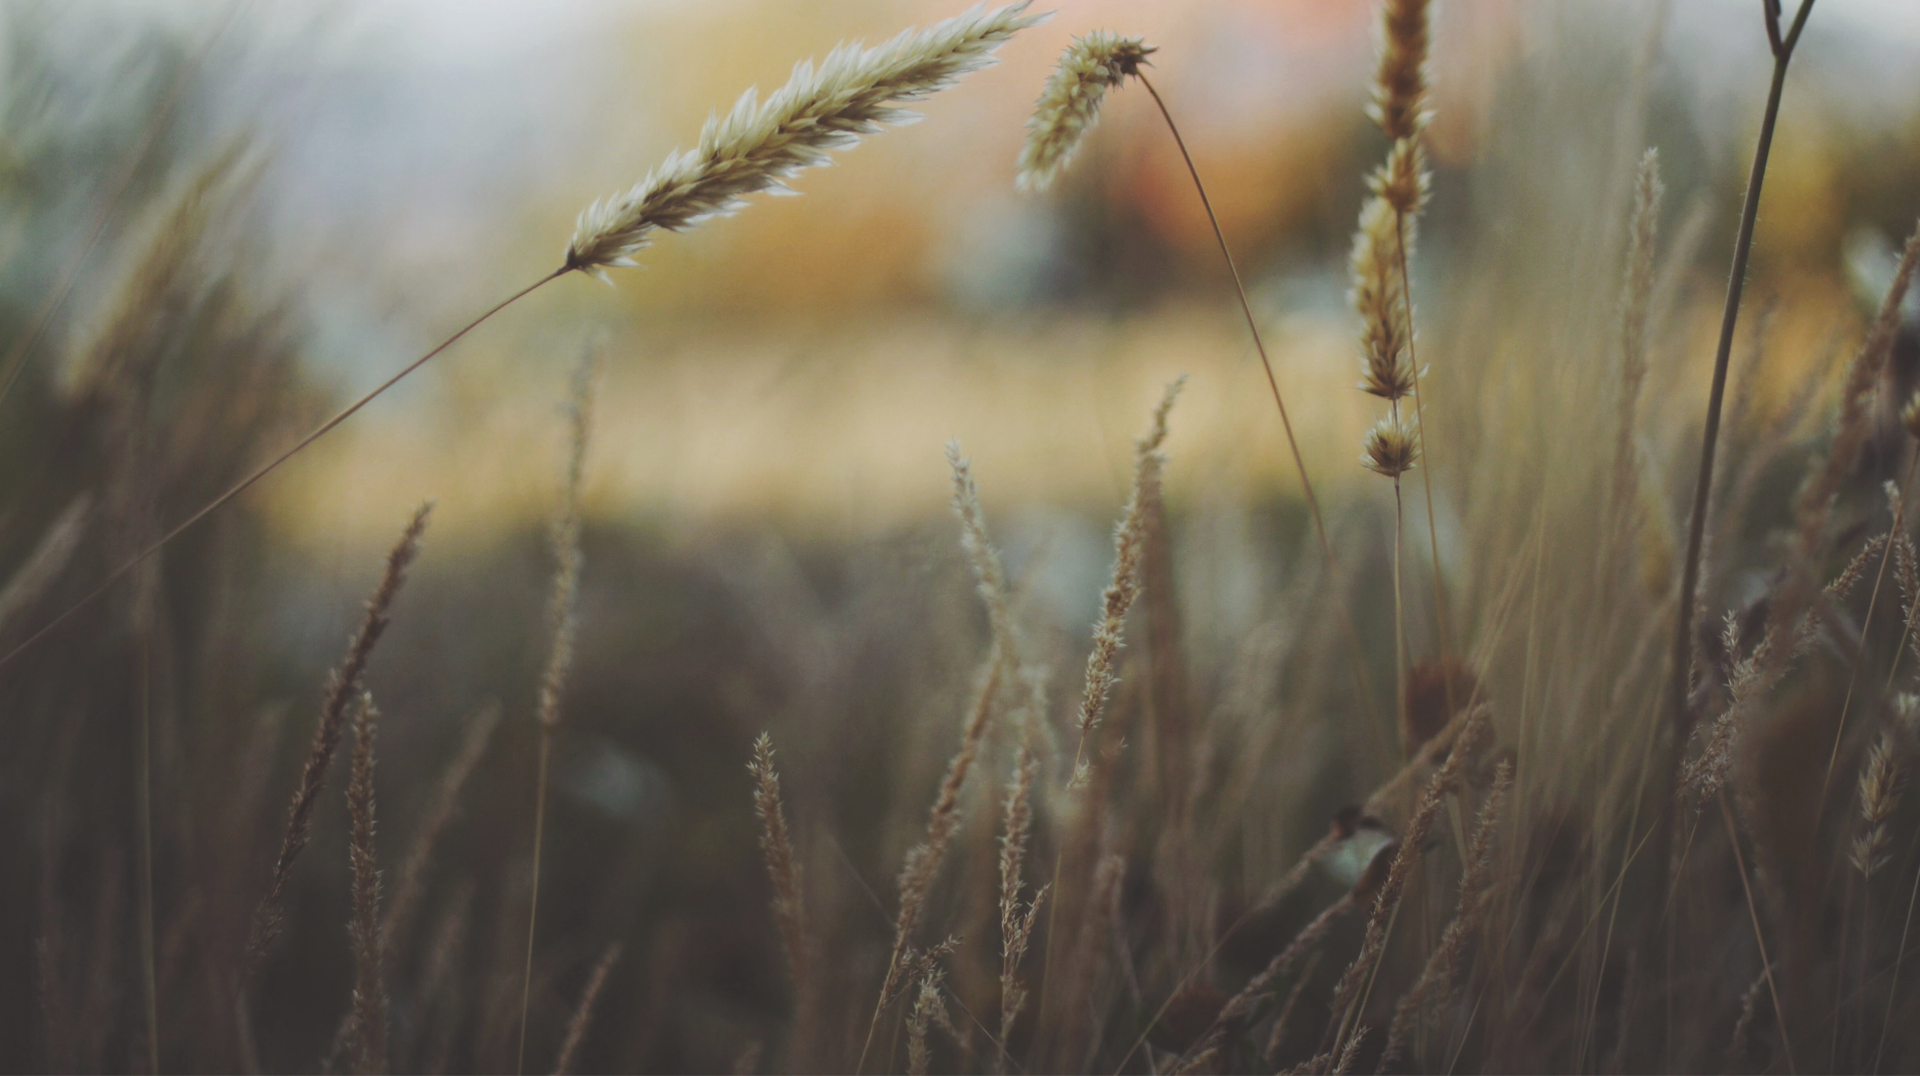
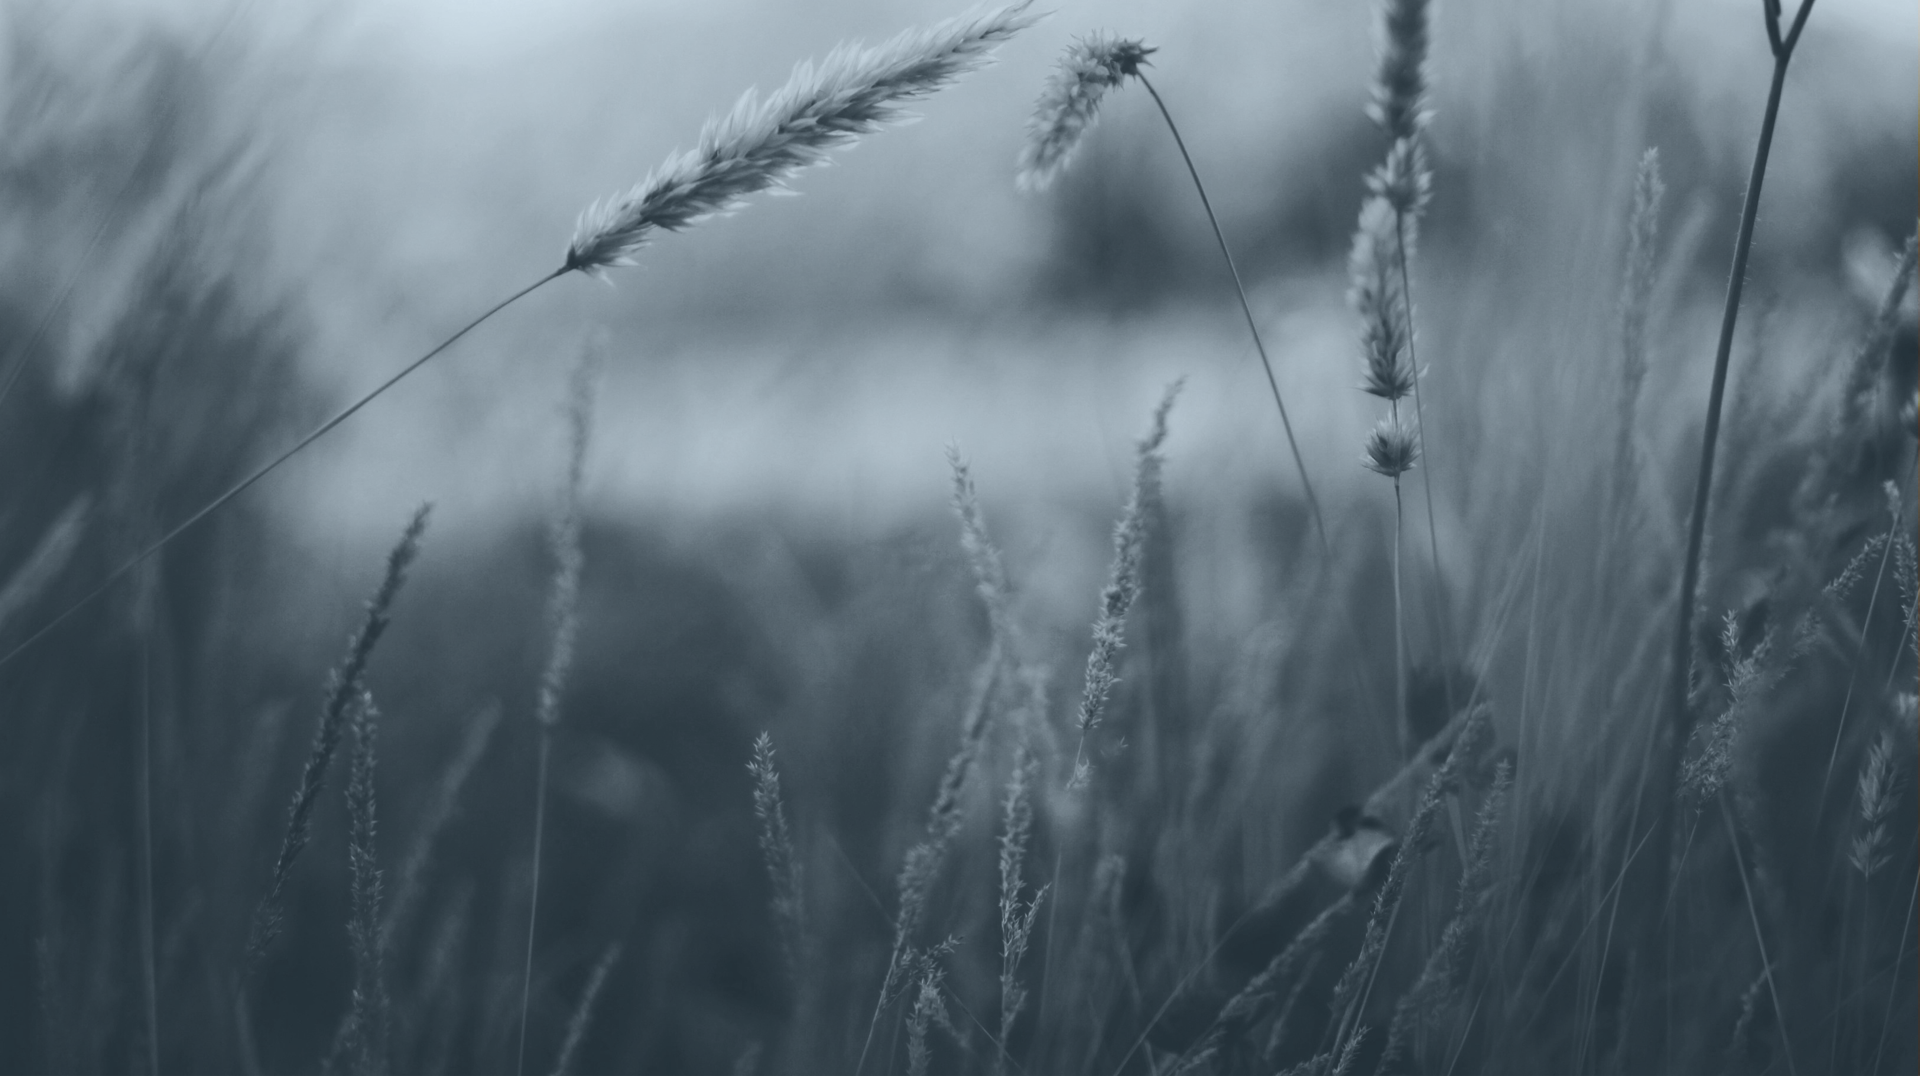
~not final push~

diff --git a/Blueasy page/index.html b/Blueasy page/index.html
@@ -8,7 +8,7 @@
     <link rel="stylesheet" href="https://cdnjs.cloudflare.com/ajax/libs/twitter-bootstrap/4.1.3/css/bootstrap.min.css">
     <link rel="stylesheet" href="https://use.fontawesome.com/releases/v5.3.1/css/all.css">
     <link rel="stylesheet" href="css/style.css">
-    <title>Title</title>
+    <title>Blueasy Template</title>
 </head>
 
 <body>
@@ -208,131 +208,130 @@
         </div> <!-- fin container twitter -->
 
     </div> <!-- fin container fluid twitter -->
-
-    <div class="bg2">
     
-        <div class="container-fluid doeContFluid">
     
-            <div class="container doeCont">
-            
-                <div class="row">
-                    <h3><span class="underligne">wh</span>o is john doe?</h3>
+    <div class="container-fluid doeContFluid">
+    
+        <div class="container doeCont">
+    
+            <div class="row">
+                <h3><span class="underligne">wh</span>o is john doe?</h3>
+            </div>
+    
+            <div class="row">
+    
+                <div class="col-6 doeCol">
+    
+                    <p class="doePara">Bear claw marzipan bear claw applicake I love muffin. Lemon drops gummi bears pastry
+                        gummi bears sesame snaps I love
+                        unerdwear.com. Soufflé cotton candy dessert candy ice cream wafer gummies cheesecake brownie.</p>
+                    <p>Muffin chupa chups jelly beans sweet pie applicake. Croissant chocolate cake I love pudding. Ice
+                        cream I love powder
+                        pudding apple pie marshmallow. Cupcake marzipan oat cake bonbon I love candy canes toffee.</p>
+    
                 </div>
-            
-                <div class="row">
-            
-                    <div class="col-6 doeCol"> 
-                        
-                        <p class="doePara">Bear claw marzipan bear claw applicake I love muffin. Lemon drops gummi bears pastry gummi bears sesame snaps I love
-                            unerdwear.com. Soufflé cotton candy dessert candy ice cream wafer gummies cheesecake brownie.</p>
-                        <p>Muffin chupa chups jelly beans sweet pie applicake. Croissant chocolate cake I love pudding. Ice cream I love powder
-                            pudding apple pie marshmallow. Cupcake marzipan oat cake bonbon I love candy canes toffee.</p>
-
-                    </div>
-            
-                    <div class="col-6"> 
-
-                        <p class="doePara">Pudding dessert jujubes tiramisu gingerbread croissant tiramisu applicake. Sesame snaps sugar plum cotton candy
-                            chocolate bonbon lemon drops candy canes cotton candy. Cake toffee pie bear claw pastry.</p>
-
-                        <i class="fab fa-twitter doeIcone"></i>
-                        <i class="fab fa-google-plus-g doeIcone"></i>
-                        <i class="fab fa-dribbble doeIcone"></i>
-                        <i class="fas fa-coffee doeIcone"></i>
-
-                    </div>
-            
-                </div>            
-            
-            </div> <!-- fin container doe -->
-
-            <div class="testimonials">
-
-                <div class="container">
-
-                    <div class="testiTitle">
-                        <h3><span class="underligne">tes</span>timonials</h3>
-                        <img src="img/quote.png" alt="">
-                    </div>
-
-                    <div class="testiPara">
-                        <p>Applicake chocolate cake wafer toffee pie soufflé wafer. Tart marshmallow wafer macaroon cheesecake jelly.
-                            Gingerbread cookie soufflé sweet roll sweet roll jelly-o.</p>
-                        
-                        <span class="wWhite boldMe">-Walker White</span>
-                    </div>
-
-                </div> <!-- fin container testimonials -->
-
-            </div> <!-- fin testimonials -->
     
-        </div> <!-- fin container fluid doe -->
-
-    </div> <!-- fin flitre -->
-
-    <div class="bg3">
-
-        <div class="container-fluid containerFlForm">
+                <div class="col-6">
     
-            <div class="container ">
-            
-                <h3><span class="underligne">co</span>ntact</h3>
-            
-                <form>
-            
-                    <div class="form-group row">
-            
-                        <div class="col-6 formId">
-            
-                            <label for="" class="col col-form-label formPolice">full name</label>
-                            <div class="col-10">
-                                <input type="text" name="" id="" class="form-control">
-                            </div>
-            
-                            <label for="" class="col col-form-label formPolice">email</label>
-                            <div class="col-10">
-                                <input type="email" name="" id="" class="form-control">
-                            </div>
-            
-                        </div>
+                    <p class="doePara">Pudding dessert jujubes tiramisu gingerbread croissant tiramisu applicake. Sesame
+                        snaps sugar plum cotton candy
+                        chocolate bonbon lemon drops candy canes cotton candy. Cake toffee pie bear claw pastry.</p>
+    
+                    <i class="fab fa-twitter doeIcone"></i>
+                    <i class="fab fa-google-plus-g doeIcone"></i>
+                    <i class="fab fa-dribbble doeIcone"></i>
+                    <i class="fas fa-coffee doeIcone"></i>
+    
+                </div>
+    
+            </div>
+    
+        </div> <!-- fin container doe -->
+    
+        <div class="testimonials">
+    
+            <div class="container">
+    
+                <div class="testiTitle">
+                    <h3><span class="underligne">tes</span>timonials</h3>
+                    <img src="img/quote.png" alt="">
+                </div>
+    
+                <div class="testiPara">
+                    <p>Applicake chocolate cake wafer toffee pie soufflé wafer. Tart marshmallow wafer macaroon cheesecake
+                        jelly.
+                        Gingerbread cookie soufflé sweet roll sweet roll jelly-o.</p>
+    
+                    <span class="wWhite boldMe">-Walker White</span>
+                </div>
+    
+            </div> <!-- fin container testimonials -->
+    
+        </div> <!-- fin testimonials -->
+    
+    </div> <!-- fin container fluid doe -->
 
-                        <div class="col-6">
-                            <p>Jujubes bear claw croissant wafer sweet lemon drops brownie chocolate bar. Sweet lollipop halvah tootsie roll cake
-                                fruitcake. Chocolate cake chocolate bar gingerbread lollipop tart. Jujubes bear claw donut chupa chups.</p>
-                            
-                            <p>Linda Newman
-                                W325 State Road 123
-                                Mondovi, WI(Wisconsin) 98746-54321
-                                (715) 946 - 1234</p>
-                            
+    
+    <div class="container-fluid containerFlForm">
+    
+        <div class="container ">
+    
+            <h3><span class="underligne">co</span>ntact</h3>
+    
+            <form>
+    
+                <div class="form-group row">
+    
+                    <div class="col-6 formId">
+    
+                        <label for="" class="col col-form-label formPolice">full name</label>
+                        <div class="col-10">
+                            <input type="text" name="" id="" class="form-control">
                         </div>
-            
+    
+                        <label for="" class="col col-form-label formPolice">email</label>
+                        <div class="col-10">
+                            <input type="email" name="" id="" class="form-control">
+                        </div>
+    
                     </div>
-            
-                    <div class="form-row">
-
-                        <div class="col-12">
-
-                            <label for="validationTextarea" class="formPolice">message</label>
-                            <textarea class="form-control " id="validationTextarea" rows="8"></textarea>
-                            <br>
-                        </div>
-            
-                        <div class="col">
-                            <button type="submit" class="formButton">Message</button>
-                        </div>
-
+    
+                    <div class="col-6">
+                        <p>Jujubes bear claw croissant wafer sweet lemon drops brownie chocolate bar. Sweet lollipop halvah
+                            tootsie roll cake
+                            fruitcake. Chocolate cake chocolate bar gingerbread lollipop tart. Jujubes bear claw donut chupa
+                            chups.</p>
+    
+                        <p>Linda Newman
+                            W325 State Road 123
+                            Mondovi, WI(Wisconsin) 98746-54321
+                            (715) 946 - 1234</p>
+    
                     </div>
-            
-                </form>
-            
-            </div> <!-- fin container form -->
     
-        </div> <!-- fin container fluide formulaire -->
+                </div>
     
-    </div>
-
-
+                <div class="form-row">
+    
+                    <div class="col-12">
+    
+                        <label for="validationTextarea" class="formPolice">message</label>
+                        <textarea class="form-control " id="validationTextarea" rows="8"></textarea>
+                        <br>
+                    </div>
+    
+                    <div class="col">
+                        <button type="submit" class="formButton">Message</button>
+                    </div>
+    
+                </div>
+    
+            </form>
+    
+        </div> <!-- fin container form -->
+    
+    </div> <!-- fin container fluide formulaire -->
+    
     <script src="https://cdnjs.cloudflare.com/ajax/libs/jquery/3.3.1/jquery.slim.min.js"></script>
     <script src="https://cdnjs.cloudflare.com/ajax/libs/popper.js/1.13.0/umd/popper.min.js"></script>
     <script src="https://cdnjs.cloudflare.com/ajax/libs/twitter-bootstrap/4.1.3/js/bootstrap.min.js"></script>

diff --git a/Blueasy page/css/style.css b/Blueasy page/css/style.css
@@ -2,10 +2,8 @@
 /* ------------------------------------- */
 .rowHeader{
     background-image:
-        linear-gradient(black, black),
-        url(../img/bg1.png);
+    url(../img/bg1.png);
     background-size: cover;
-    background-blend-mode: saturation;
     height: 100vh;
 }
 .navBarre{
@@ -150,16 +148,20 @@
     width: 60%;
 }
 /* ------------------------------------- */
-.bg2{
+/* .bg2{
     background-image: url(../img/bg2.png);
     background-position: center; 
     background-repeat: no-repeat;
 }
-.doeContFluid{
-    background-color: rgba(53, 63, 71, 0.5);
+ */.doeContFluid{
     height: 80vh;
     color: white;
     padding: 80px 0;
+
+    background-image: url(../img/bg2.png);
+    background-position: center; 
+    background-repeat: no-repeat;
+
 }
 .doeCol{
     padding-left: 0;
@@ -196,17 +198,21 @@
     color: #4BCAFF;
 }
 /* ------------------------------------- */
-.bg3{
+/* .bg3{
     margin-top: 150px;
     background-image: url(../img/bg3.png);
     background-position: center; 
     background-repeat: no-repeat;
 }
-.containerFlForm{
+ */.containerFlForm{
     color: white;
     height: 80vh;
-    background-color: rgba(53, 63, 71, 0.5);
     padding: 50px 0;
+
+    margin-top: 150px;
+    background-image: url(../img/bg3.png);
+    background-position: center; 
+    background-repeat: no-repeat;
 
 }
 .formId{
